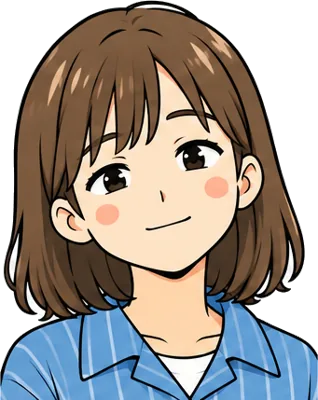
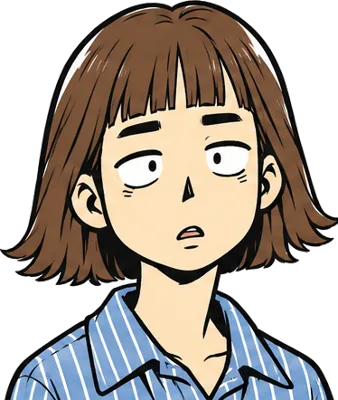
Put the full cast and 14 place backgrounds into events
Every named character now has a bold-style face (8 expressions for the
main cast, 3 for side characters), and each event is shown in its own
place. The cut script detects 1-row side sheets and keeps white shirts
from turning transparent.

Claude-Session: https://claude.ai/code/session_013FebaMkpT5MJPPYG928NHx

diff --git a/src/ui/art.ts b/src/ui/art.ts
@@ -10,7 +10,20 @@ for (const [path, url] of Object.entries(FILES)) ART[path.slice(path.lastIndexOf
 export type Expr = 'normal' | 'smile' | 'laugh' | 'surprise' | 'down' | 'angry' | 'think' | 'shy'
 
 // 名前 → 絵のキー。まだ絵がない人は出てこない（仮の似顔絵になる）
-const CHARA_BY_NAME: Record<string, string> = { 向井: 'mukai', 講師: 'tsujido', 辻堂: 'tsujido' }
+const CHARA_BY_NAME: Record<string, string> = {
+  向井: 'mukai',
+  堂島: 'dojima',
+  岸辺: 'kishibe',
+  早瀬: 'hayase',
+  灰原: 'haibara',
+  大河内: 'ookouchi',
+  ナカジ: 'nakaji',
+  講師: 'tsujido',
+  辻堂: 'tsujido',
+  三宅: 'miyake',
+  店長: 'tencho',
+  支配人: 'shihainin',
+}
 
 export function heroKey(gender: Gender | undefined): string {
   return gender === 'female' ? 'hero_f' : 'hero_m'
@@ -28,13 +41,34 @@ export function portrait(key: string | undefined, expr: Expr): string | undefine
 
 // イベント名 → 場所。背景がまだない場所は従来の色背景のまま
 const PLACE_BY_TITLE: Record<string, string> = {
+  入学式: 'koudou',
   '「実質、芸歴9年やろ」': 'kyoushitsu',
   相方見つけ会: 'kyoushitsu',
-  ネタ見せの順番: 'kyoushitsu',
+  コンビ名を決める: 'famires',
+  ネタ見せの順番: 'rouka',
+  ごちそうさまでした: 'izakaya',
+  コント頂のエントリー: 'livehouse',
+  漫才天下一のエントリー: 'livehouse',
+  夏の強化合宿: 'rouka',
   コンプライアンス講習: 'kyoushitsu',
-  クラス替え: 'kyoushitsu',
+  クラス替え: 'rouka',
+  光と影: 'rouka',
   東西寄席合戦の選考: 'kyoushitsu',
   卒業公演のオーディション: 'kyoushitsu',
+  '卒業大会「門出」': 'butai',
+  夜の公園: 'kouen',
+  相方が来ない: 'ekimae',
+  '「新ネタやろう！」': 'gakuya',
+  貸した金: 'famires',
+  同期LINE: 'heya',
+  バラシ: 'heya',
+  風呂なしアパート: 'heya',
+  先輩の引っ越し: 'heya',
+  知り合いの知り合いからの仕事: 'baito',
+  相方の内定: 'famires',
+  解散の危機: 'sodeura',
+  お金が尽きた: 'heya',
+  '3月 卒業': 'koudou',
 }
 
 export function background(title: string): string | undefined {

diff --git a/scripts/cut_art.py b/scripts/cut_art.py
@@ -5,22 +5,37 @@ from PIL import Image, ImageFilter
 from collections import deque
 raw, out = sys.argv[1], sys.argv[2]
 EXPR = ['normal','smile','laugh','surprise','down','angry','think','shy']
-def unwhite(im, tol=30):
+def unwhite(im, tol=30, guard_body=False):
     # 線画を2pxふくらませて壁にし、外側の白だけを塗りつぶす（線のすき間から服の白へ漏れないように）
     im = im.convert('RGBA'); w, h = im.size; px = im.load()
     ink = im.convert('L').point(lambda v: 255 if v < 215 else 0).filter(ImageFilter.MaxFilter(5)).load()
     bg = bytearray(w*h); q = deque()
+    # guard_body: 胸から下（体が横幅いっぱいに広がる行より下）では、体の左右の端より外側だけを背景にする。
+    # 白いTシャツが線の切れ目で背景とつながっている人用。髪が横に広い人に使うと、肩の脇に白が残る
+    lum = im.convert('L').load()
+    span = []
+    for y in range(h):
+        xs = [x for x in range(w) if lum[x,y] < 215]
+        span.append((xs[0], xs[-1]) if xs else (w, -1))
+    # ゴミの点や隣のコマの線で1行だけ幅が狂うので、上下15行の中央値でならし、胸から下は下へ行くほど広がるようにする
+    def med(vals): return sorted(vals)[len(vals)//2]
+    span = [(med([span[j][0] for j in range(max(0,y-7), min(h,y+8))]), med([span[j][1] for j in range(max(0,y-7), min(h,y+8))])) for y in range(h)]
+    body = next((y for y in range(h) if span[y][1] - span[y][0] >= w*0.85), h)
+    for y in range(body + 1, h):
+        span[y] = (min(span[y][0], span[y-1][0]), max(span[y][1], span[y-1][1]))
+    def allowed(x, y):
+        return not guard_body or y < body or x < span[y][0] or x > span[y][1]
     for x in range(w): q.append((x,0))
     for y in range(h): q.append((0,y)); q.append((w-1,y))
     while q:
         x,y = q.popleft()
-        if x<0 or y<0 or x>=w or y>=h or bg[y*w+x] or ink[x,y]: continue
+        if x<0 or y<0 or x>=w or y>=h or bg[y*w+x] or ink[x,y] or not allowed(x,y): continue
         bg[y*w+x] = 1
         q.extend(((x+1,y),(x-1,y),(x,y+1),(x,y-1)))
     def white(x,y):
         r,g,b,a = px[x,y]; return r>255-tol and g>255-tol and b>255-tol
     for _ in range(3):  # ふくらませた分の白い縁を取り戻す
-        add = [(x,y) for y in range(h) for x in range(w) if not bg[y*w+x] and white(x,y) and any(0<=x+dx<w and 0<=y+dy<h and bg[(y+dy)*w+x+dx] for dx,dy in ((1,0),(-1,0),(0,1),(0,-1)))]
+        add = [(x,y) for y in range(h) for x in range(w) if not bg[y*w+x] and allowed(x,y) and white(x,y) and any(0<=x+dx<w and 0<=y+dy<h and bg[(y+dy)*w+x+dx] for dx,dy in ((1,0),(-1,0),(0,1),(0,-1)))]
         for x,y in add: bg[y*w+x] = 1
     for y in range(h):
         for x in range(w):
@@ -31,29 +46,44 @@ def unwhite(im, tol=30):
             if a and r>220 and g>220 and b>220 and any(0<=x+dx<w and 0<=y+dy<h and bg[(y+dy)*w+x+dx] for dx,dy in ((1,0),(-1,0),(0,1),(0,-1))):
                 px[x,y] = (r,g,b,110)
     return im
-def finish(c):
+# 白いTシャツの輪郭が切れていて、ふつうに抜くと服まで透ける人
+GUARD_BODY = {'nakaji', 'dojima'}
+
+def finish(c, guard_body=False):
     # 胸元の下の白い余白を先に落とす（服の白と背景がつながらないように）
     g = c.convert('L').load(); cw2, ch2 = c.size
     rows = [y for y in range(ch2) if sum(1 for x in range(cw2) if g[x,y] < 235) > cw2*0.35]
     c = c.crop((0, 0, cw2, rows[-1] - 3))
-    c = unwhite(c)
+    c = unwhite(c, guard_body=guard_body)
     bb = c.getbbox(); c = c.crop((bb[0], bb[1], bb[2], c.size[1]))
     c.thumbnail((400, 400))
     return c
 
 import glob, os
 # 表情シートがある人は8コマに分ける。立ち絵しかない人は「ふつう」だけ作る（ほかの表情は「ふつう」で代用される）
+# 主要キャラは2行4列の8表情、脇役は1行3列（ふつう・笑い・驚き）。真ん中あたりに真っ白な横1行があれば2行とみなす
+SIDE = [('normal',), ('smile', 'laugh'), ('surprise',)]
 for path in sorted(glob.glob(f'{raw}/ch_*_sheet.png')):
     ch = os.path.basename(path)[3:-len('_sheet.png')]
     sheet = Image.open(path)
-    W,H = sheet.size; cw, chh = W//4, H//2
-    for i,e in enumerate(EXPR):
-        finish(sheet.crop(((i%4)*cw, (i//4)*chh, (i%4+1)*cw, (i//4+1)*chh))).save(f'{out}/{ch}_{e}.webp', quality=82, method=6)
+    W,H = sheet.size
+    g = sheet.convert('L')
+    two_rows = any(g.crop((0, y, W, y + 1)).getextrema()[0] > 200 for y in range(int(H*0.4), int(H*0.6)))
+    if two_rows:
+        cw, chh = W//4, H//2
+        cells = [(((i%4)*cw, (i//4)*chh, (i%4+1)*cw, (i//4+1)*chh), (e,)) for i,e in enumerate(EXPR)]
+    else:
+        cw = W//3
+        cells = [((i*cw, 0, (i+1)*cw, H), names) for i,names in enumerate(SIDE)]
+    for old in glob.glob(f'{out}/{ch}_*.webp'): os.remove(old)
+    for box, names in cells:
+        face = finish(sheet.crop(box), ch in GUARD_BODY)
+        for e in names: face.save(f'{out}/{ch}_{e}.webp', quality=82, method=6)
 for path in sorted(glob.glob(f'{raw}/ch_*_stand.png')):
     ch = os.path.basename(path)[3:-len('_stand.png')]
     if os.path.exists(f'{raw}/ch_{ch}_sheet.png'): continue
     for old in glob.glob(f'{out}/{ch}_*.webp'): os.remove(old)
-    finish(Image.open(path)).save(f'{out}/{ch}_normal.webp', quality=82, method=6)
+    finish(Image.open(path), ch in GUARD_BODY).save(f'{out}/{ch}_normal.webp', quality=82, method=6)
 for path in sorted(glob.glob(f'{raw}/bg_*.png')):
     bg = Image.open(path).convert('RGB'); bg.thumbnail((960,960))
     bg.save(f"{out}/{os.path.basename(path)[:-4]}.webp", quality=78, method=6)
